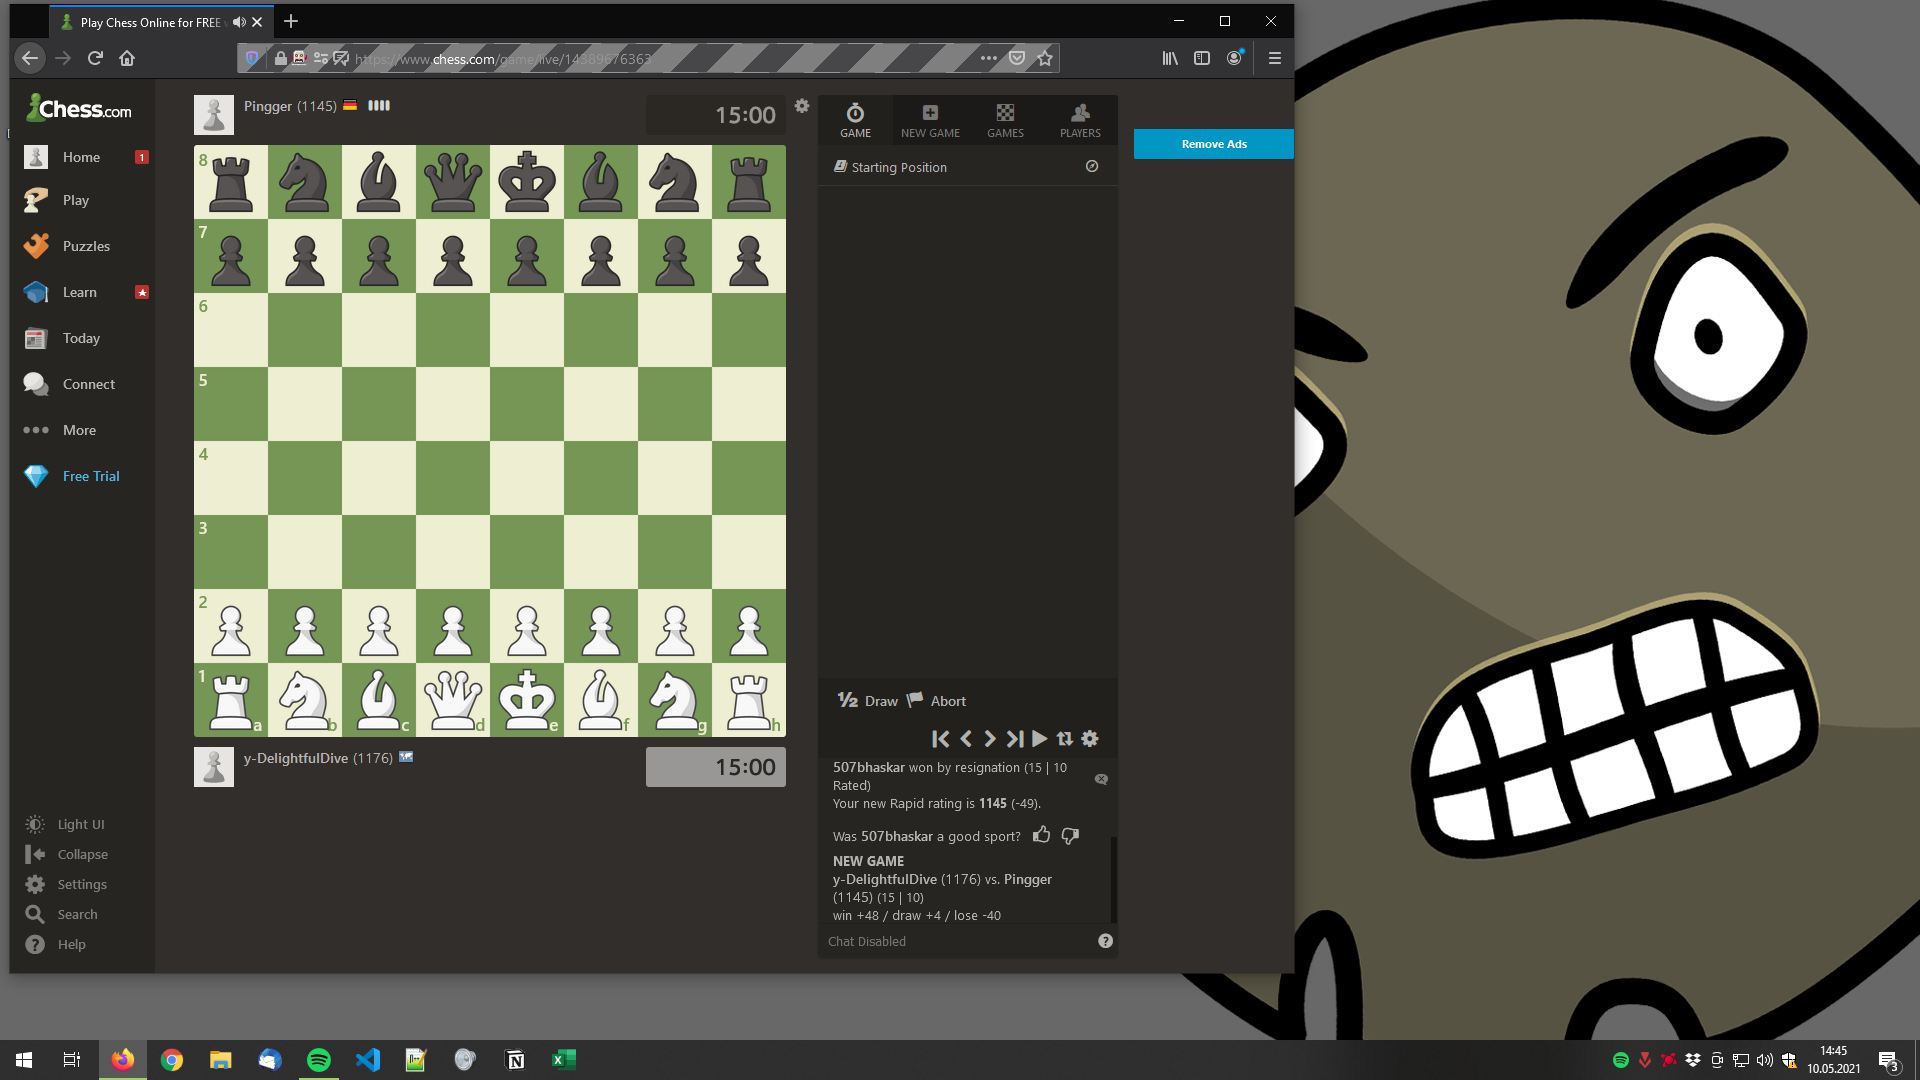
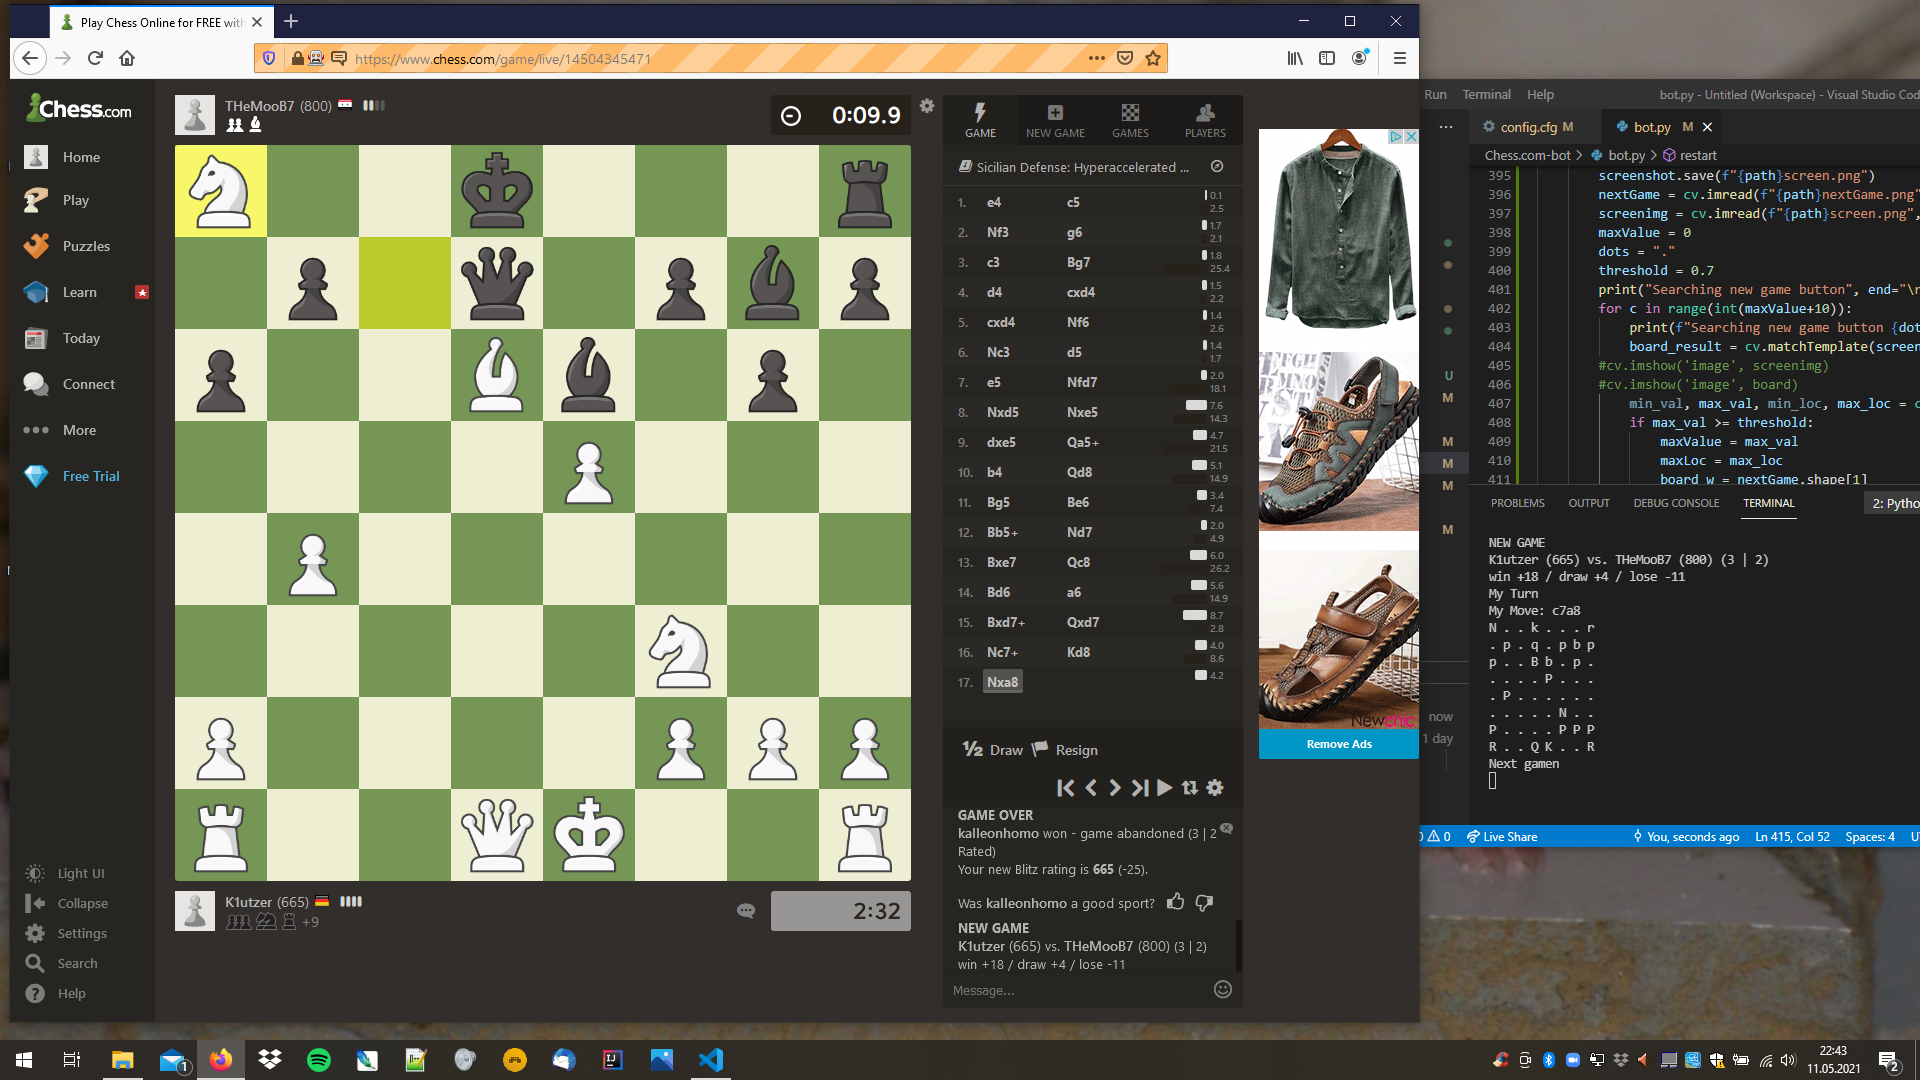
edit

diff --git a/bot.py b/bot.py
@@ -33,6 +33,8 @@ config = configparser.ConfigParser()
 config.read("config.cfg")
 username = str(config.get("chess.com", "username"))
 password = str(config.get("chess.com", "password"))
+legit = bool(config.get("settings", "legit"))
+keepPlaying = bool(config.get("settings", "keepPlaying"))
 movesCounter = 0
 myturn = False
 fields_Cords = {}
@@ -85,7 +87,7 @@ def get_user_color(driver):
             else:
                 dot += "."
 
-    global alwaysPrint, pauseMaxTime
+    global alwaysPrint, pauseMaxTime, legit
     alwaysPrint = elem.text
     pattern = re.compile("(\d{1,2} \| \d{1,2})")
     gameModeTimes = re.findall('[0-9]+', pattern.search(elem.text).group())
@@ -97,6 +99,8 @@ def get_user_color(driver):
         pauseMaxTime = 14.0
     elif int(gameModeTimes[0]) >= 15:
         pauseMaxTime = 30.0
+    if not legit:
+        pauseMaxTime = 0
     print(elem.text)
     players = re.findall(r'(\w+)\s\(\d+\)', elem.text)
 
@@ -119,6 +123,7 @@ def getBoard():
         screenshot = pyautogui.screenshot()
         screenshot.save(f"{path}screen.png")
         board_layout1 = cv.imread(f"{path}layout1.PNG")
+        nextGame = cv.imread(f"{path}nextGame.png")
         screenimg = cv.imread(f"{path}screen.png", cv.IMREAD_UNCHANGED)
         maxValue = 0
         dots = "."
@@ -141,7 +146,6 @@ def getBoard():
             higth = int(board_layout1.shape[0] * 90/100)
             board_layout1 = cv.resize(board_layout1, (width, higth))
         
-
 
         if maxValue >= threshold:
             
@@ -383,7 +387,57 @@ def init():
     chessEngine = Engine('./stockfish_13_win_x64_bmi2/stockfish_13_win_x64_bmi2.exe', param={'Threads': 10, 'Ponder': None})
     board = chess.Board()
     return chessEngine, board
+def restart():
+    path = "figures/"
+    print("Next game")
+    try:
+        screenshot = pyautogui.screenshot()
+        screenshot.save(f"{path}screen.png")
+        nextGame = cv.imread(f"{path}nextGame.png")
+        screenimg = cv.imread(f"{path}screen.png", cv.IMREAD_UNCHANGED)
+        maxValue = 0
+        dots = "."
+        threshold = 0.8
+        print("Searching new game button", end="\r")
+        for c in range(int(maxValue+10)):
+            print(f"Searching new game button {dots*c}", end="\r")
+            board_result = cv.matchTemplate(screenimg, nextGame, cv.TM_CCOEFF_NORMED)
+        #cv.imshow('image', screenimg)
+        #cv.imshow('image', board)
+            min_val, max_val, min_loc, max_loc = cv.minMaxLoc(board_result)
+            if max_val >= threshold:
+                maxValue = max_val
+                maxLoc = max_loc
+                board_w = nextGame.shape[1]
+                board_h = nextGame.shape[0]
+                if maxValue >= threshold:
+                    break 
+            width = int(nextGame.shape[1] * 90/100)
+            higth = int(nextGame.shape[0] * 90/100)
+            board_layout1 = cv.resize(nextGame, (width, higth))
+        if maxValue >= threshold:
+            
+            print("Found next game button")            
+                
+            top_left = maxLoc
+                #bottom_right = (top_left[0] + board_w, top_left[1] + board_h)
+                #cv.rectangle(screenimg, top_left, bottom_right, color=(0, 255, 0), thickness=2, lineType=cv.LINE_4)
+                
+                #bottom_right = (int(top_left[0] + board_w/8), int(top_left[1] + board_h/8))
+                
+            field_w = board_w/8
+            field_h = board_h/8
 
+            bottom_right = (int(top_left[0]+field_w), int(top_left[1]+field_h))
+            #cv.rectangle(screenimg, top_left, bottom_right, color=(0, 255, 0), thickness=2, lineType=cv.LINE_4)  
+            cv.circle(screenimg, top_left, 5, color=(0,0,255))
+            cv.imshow('Result', screenimg)
+            #cv.imwrite("board_result.jpg", screenimg)
+            click(top_left[0], top_left[1])
+        else:
+            print("Next game button not found")
+    except Exception as e:
+        print(e)
 def main(driver, chessEngine, board, newBoard):
     playerColor = get_user_color(driver)
     if newBoard:
@@ -395,6 +449,11 @@ def main(driver, chessEngine, board, newBoard):
         board = checkGameState(driver)
     while run_game(driver, chessEngine, board):
         time.sleep(0.5)
+    global keepPlaying
+    if keepPlaying:
+        time.sleep(8)
+        restart()
+    print()
     start(driver)
 def start(driver):
     global movesCounter
